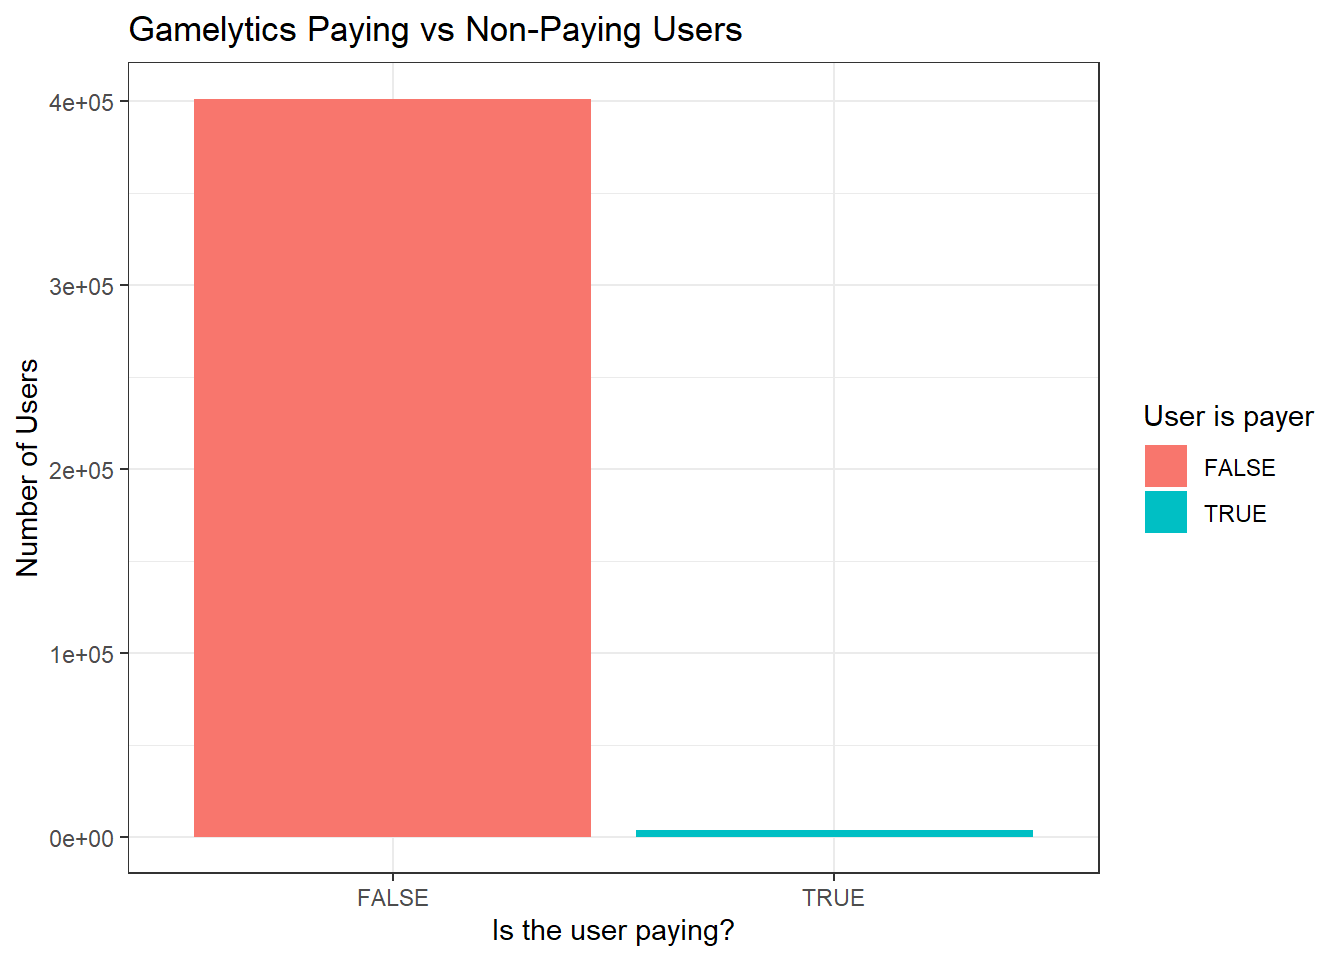
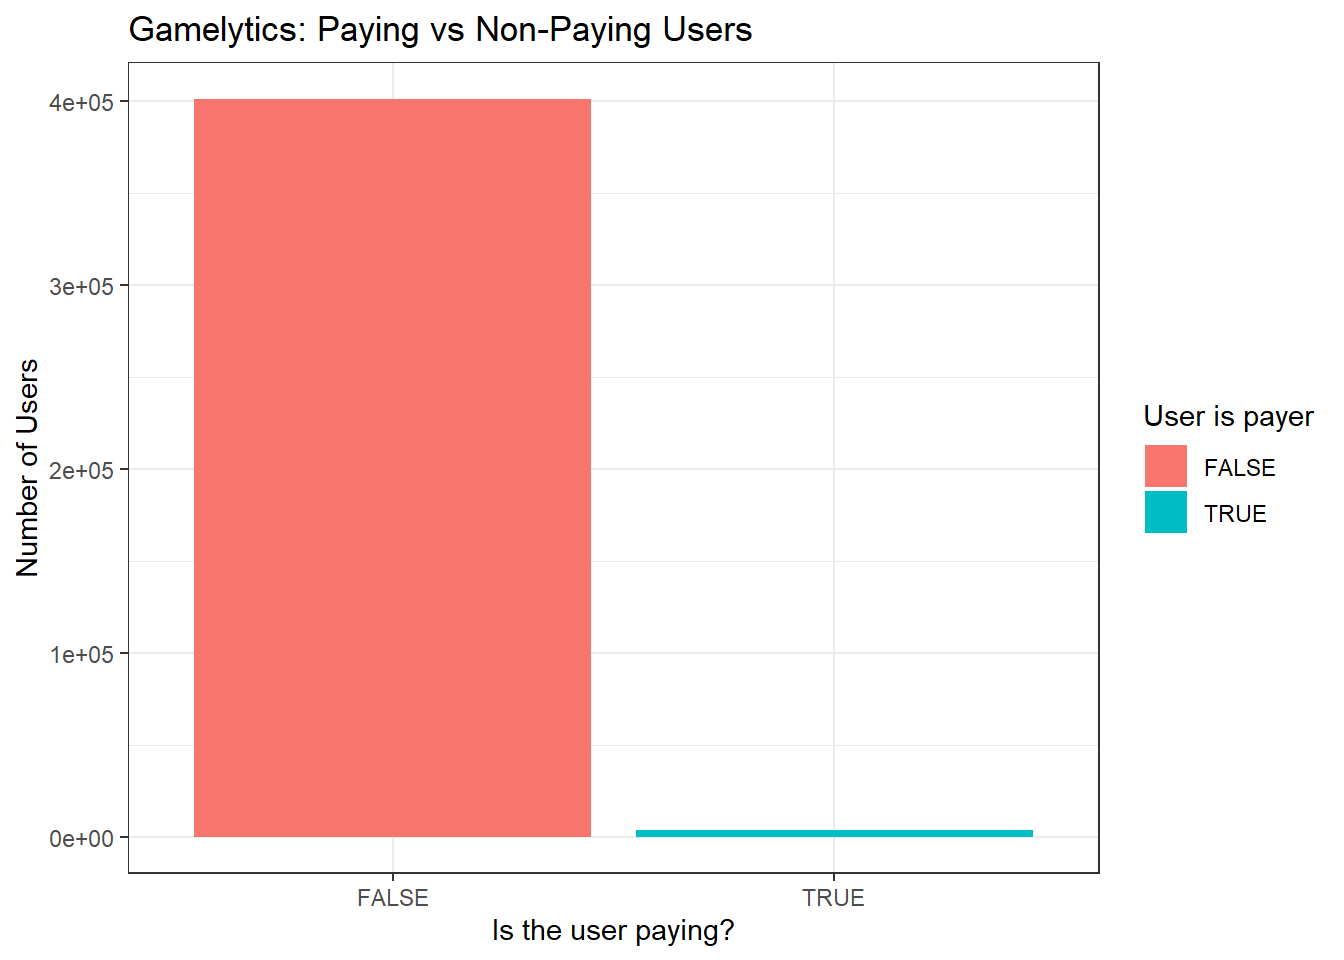
ARPU done

Changed region(s): [[0.2188, 0.0, 0.5625, 0.0625]]

diff --git a/docs/p01.html b/docs/p01.html
@@ -301,11 +301,11 @@ Analytics Challenge</h1>
 we have learned in earlier modules and more to clean, summarize, and
 visualize a Gamelytics dataset from Kaggle. I will also try to evaluate
 whether a new promotional offer(the test group) improves user (player)
-outcomes compared to the current offer (control group) using A/B tsting
-foor the conversion rate and revenue per use, as suggested as part of
-the Kaggle challenges for this dataset. For the purpose of this
-protfolio, we are going to assume the revenue is in dollars as there is
-no indication of currency in the description.</p>
+outcomes compared to the current offer (control group) using A/B testing
+for the conversion rate and revenue per use, as suggested as part of the
+Kaggle challenges for this dataset. For the purpose of this protfolio,
+we are going to assume the revenue is in dollars as there is no
+indication of currency in the description.</p>
 </blockquote>
 <p>#Will start by loading all the packages I may be using for this.</p>
 <pre class="r"><code>library(tidyverse) 
@@ -366,10 +366,10 @@ is a little under $40,000.</p>
 ## 2 b         202667</code></pre>
 <p>Looks like the number of people in the two groups are pretty
 balanced, and we have a very large sample size for both groups.</p>
-<p>Because there are few people that have spent money, it’s not very
-helpful to visualize if they’re mixed together with the majority of the
-population which are non-payers. So, I am creating a new variable that
-shows who paid.</p>
+<p>Because there are only few people that have spent money, it’s not
+very helpful to visualize if they’re mixed together with the majority of
+the population which are non-payers. So, I am creating a new variable
+that shows who paid.</p>
 <pre class="r"><code>ab &lt;- ab_test %&gt;%
   mutate (payer_user = revenue &gt; 0)</code></pre>
 <pre class="r"><code>ab %&gt;% count (payer_user)</code></pre>
@@ -383,13 +383,94 @@ shows who paid.</p>
   ggplot(aes(x = payer_user, y = n, fill = payer_user)) + 
   geom_col() +
   labs (
-    title = &quot;Gamelytics Paying vs Non-Paying Users&quot;,
+    title = &quot;Gamelytics: Paying vs Non-Paying Users&quot;,
     x = &quot;Is the user paying?&quot;,
     y = &quot;Number of Users&quot;,
     fill = &quot;User is payer&quot;
   ) +
   theme_bw()</code></pre>
 <p><img src="p01_files/figure-html/visualize-payer-nonpayer-1.png" alt="" width="672" /></p>
+<p>###Conversion Rates</p>
+<p>Now that I have differentiated who is paying, I would like to take a
+look at the conversion rate (percent of users who pay) in both
+groups.</p>
+<pre class="r"><code>conv_rate_by_group &lt;- ab %&gt;%
+  group_by(testgroup) %&gt;%   #split the data into group a and b
+  summarise(
+    conversion_rate = mean(payer_user),  #what proportion paid in each group  
+    n_users = n(),   #how many users in each group
+    .groups = &quot;drop&quot;
+  )</code></pre>
+<p>We can see that there are 0.95% of paying users in test group ‘a’ and
+0.89% paying users in test group ‘b’.</p>
+<pre class="r"><code>ggplot (conv_rate_by_group,
+        aes(x = testgroup,
+            y = conversion_rate, 
+            fill = testgroup)) + 
+  geom_col() +
+  scale_y_continuous(labels = scales::percent_format(accuracy = 0.01)) +
+  scale_fill_manual(values = c(&quot;a&quot; = &quot;orange&quot;,
+                               &quot;b&quot; = &quot;steelblue&quot;)) +
+  labs (
+    title = &quot;Conversion Rate by Test Group&quot;,
+    x = &quot;Test Group&quot;,
+    y = &quot;Conversion Rate (%)&quot;,
+    fill = &quot;Group&quot;
+  ) +
+  theme_bw()</code></pre>
+<p><img src="p01_files/figure-html/visualize-conversion-rate-1.png" alt="" width="672" /></p>
+<p>Now that we know what percentage of users paid in each group, this
+doesn’t really tell us the full story. We only know that slightly more
+people paid in group ‘a’ But we would also want to know how much these
+paying users are spending.</p>
+<p>###Average Revenue Per User (ARPU)</p>
+<p>I will calculate the average revenue spent per user (total revenue in
+group/total number of users in group).We are now incorporating th
+conversion rates with their level of spending.</p>
+<pre class="r"><code>ARPU_by_group &lt;- ab %&gt;% 
+  group_by(testgroup) %&gt;%
+  summarise(
+    ARPU = mean(revenue),   #calculate the mean of revenue now (instead of paying user)
+    n_users = n ()
+  )</code></pre>
+<pre class="r"><code>ggplot(ARPU_by_group,
+       aes(x = testgroup,
+           y = ARPU, 
+           fill = testgroup)) + 
+  geom_col() + 
+  scale_fill_manual(values = c(&quot;a&quot; = &quot;firebrick&quot;,
+                               &quot;b&quot; = &quot;forestgreen&quot;)) +
+  labs (
+    title = &quot;Average Revenue Per User by Test Group&quot;,
+    x = &quot;Test Group&quot;,
+    y = &quot;ARPU ($)&quot;,
+    fill = &quot;Group&quot;
+  ) +
+  theme_bw()</code></pre>
+<p><img src="p01_files/figure-html/visualize_ARPU-1.png" alt="" width="672" /></p>
+<p>This is a bit interesting. Earlier the conversion rate calculation
+showed us that Group A has slightly more number of users that are
+paying. But, now we see that in Group B, there is slightly more money
+spent per user overall. This suggests that although slightly fewer users
+are making purchases in Group B, those who do may be spending more on
+average compared to Group A. It’s important to note that the outliers
+may be affecting our data though since our revenue distribution is
+really skewed.</p>
+<div id="revenue-distribution-by-group" class="section level3">
+<h3>Revenue Distribution by Group</h3>
+<pre class="r"><code>ggplot(ab, aes(x = revenue, fill = testgroup)) +
+  geom_histogram() +
+facet_wrap(~testgroup) +
+  labs(
+    title = &quot;Revenue Distribution by Test Group&quot;,
+    x = &quot;Revenue ($)&quot;,
+    y = &quot;Number of Users&quot;
+  ) +
+  theme_bw() +
+  theme(legend.position = &quot;none&quot;)</code></pre>
+<pre><code>## `stat_bin()` using `bins = 30`. Pick better value `binwidth`.</code></pre>
+<p><img src="p01_files/figure-html/revenue-histogram-by-group-1.png" alt="" width="672" /></p>
+</div>
 
 
 
